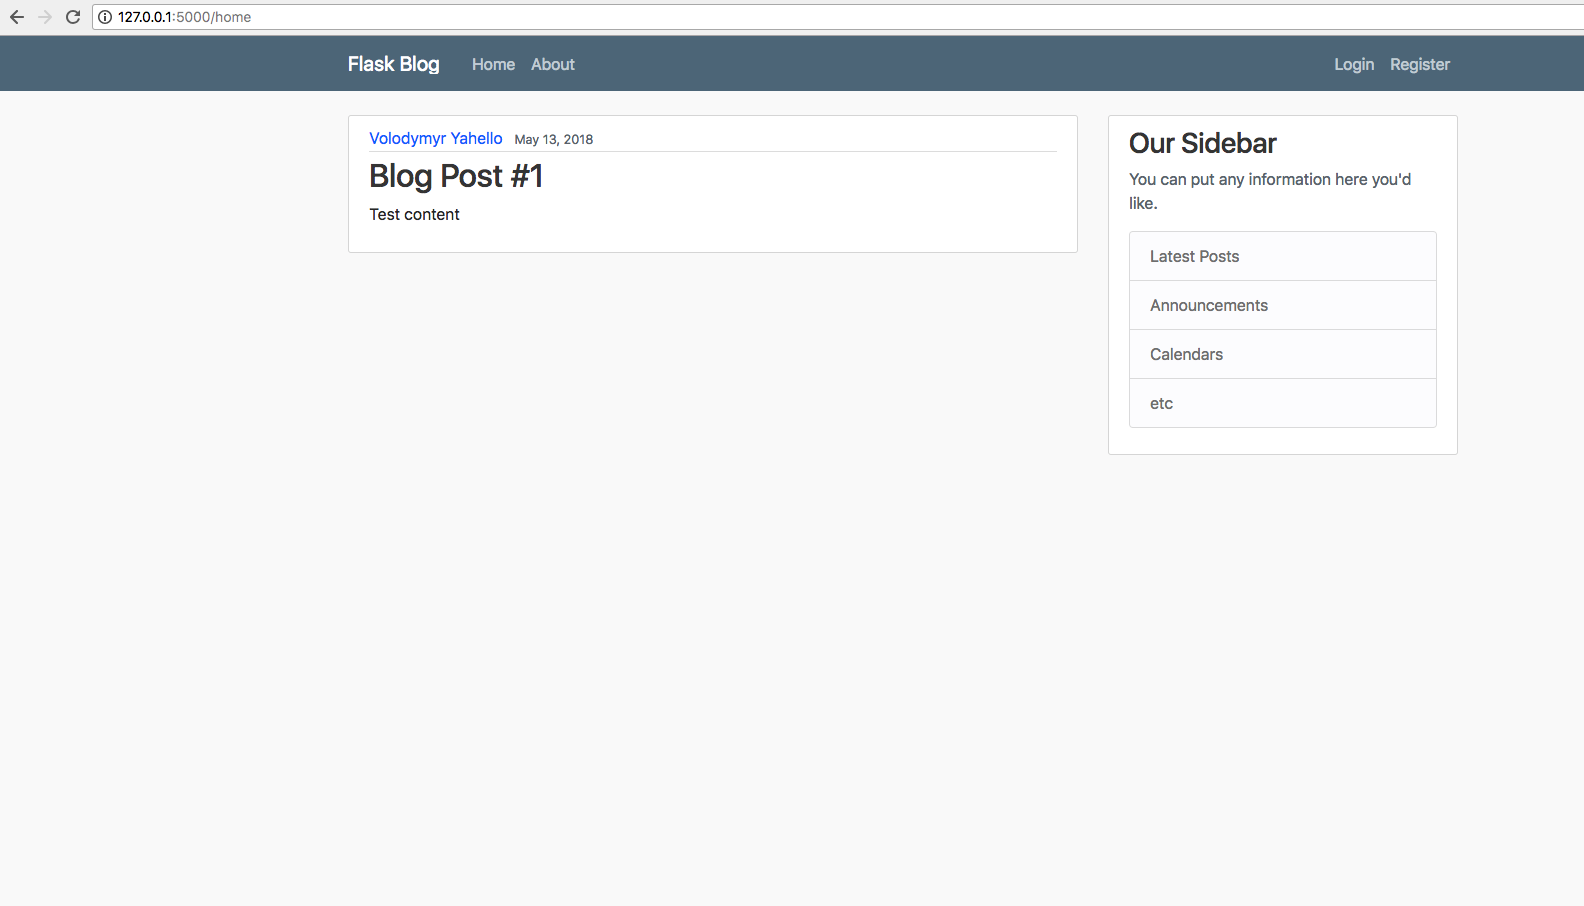
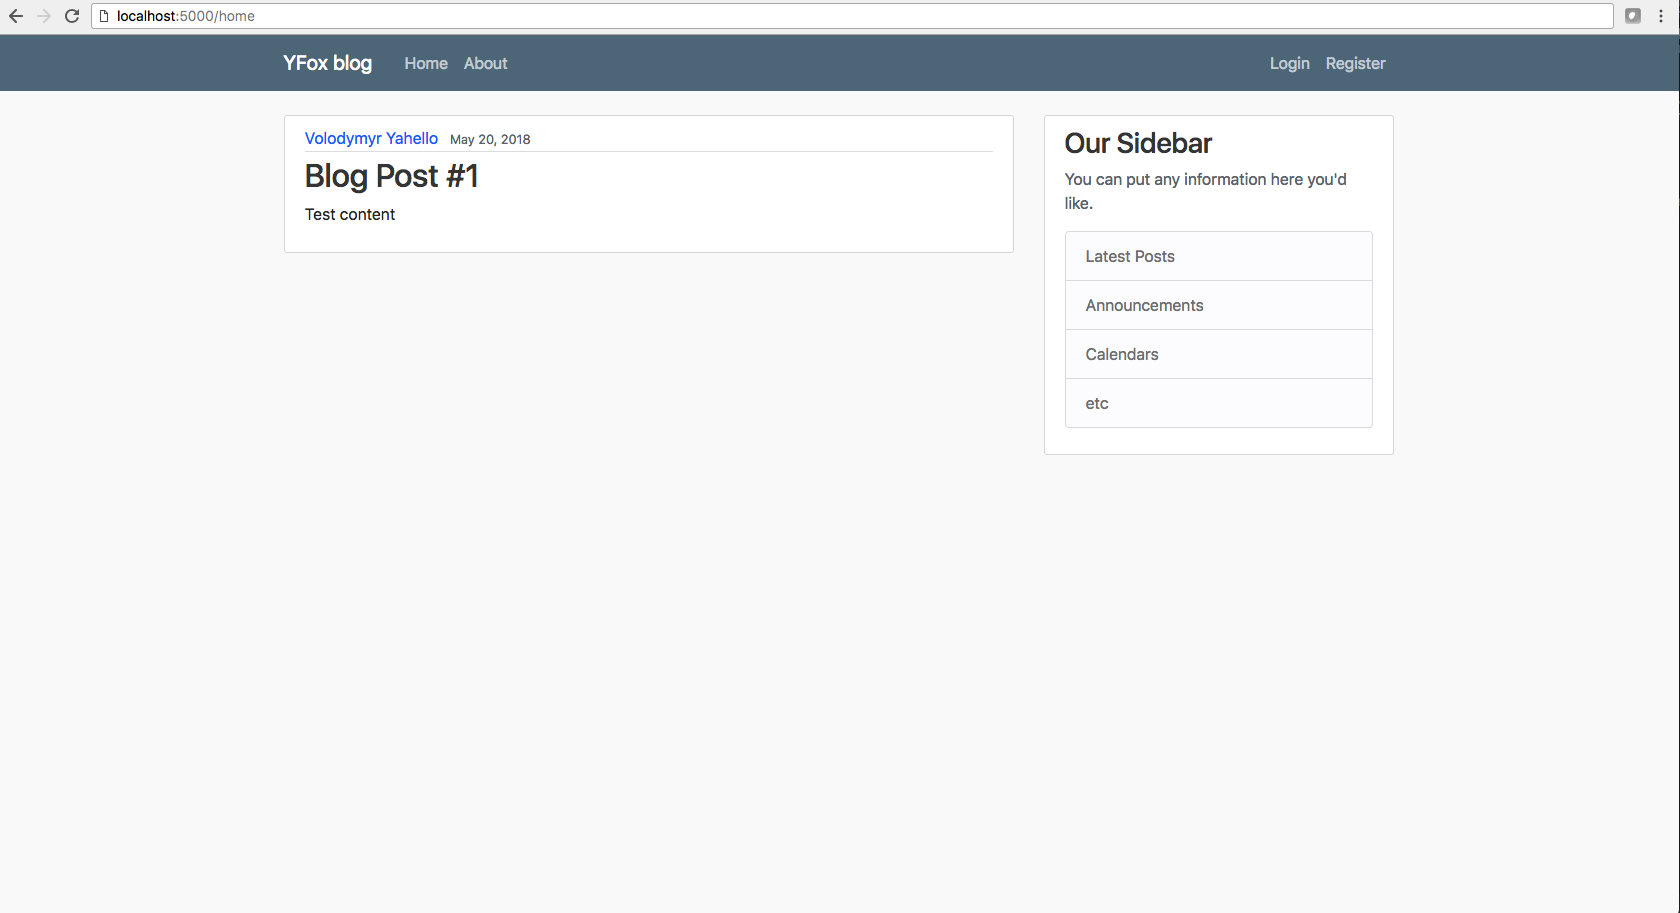
Introduce YFOX blog name

diff --git a/server/templates/layout.html b/server/templates/layout.html
@@ -20,7 +20,7 @@
     <header class="site-header">
       <nav class="navbar navbar-expand-md navbar-dark bg-steel fixed-top">
         <div class="container">
-          <a class="navbar-brand mr-4" href="/">Flask Blog</a>
+          <a class="navbar-brand mr-4" href="/">YFox blog</a>
           <button class="navbar-toggler" type="button" data-toggle="collapse" data-target="#navbarToggle" aria-controls="navbarToggle" aria-expanded="false" aria-label="Toggle navigation">
             <span class="navbar-toggler-icon"></span>
           </button>

diff --git a/README.md b/README.md
@@ -10,6 +10,8 @@ Execute next command in your shell
 ## Structure
 ### Home Page
 ![Screenshot](server/images/home.png)
+### About Page
+![Screenshot](server/images/about.png)
 ### Login Page
 ![Screenshot](server/images/login.png)
 ### Register Page
